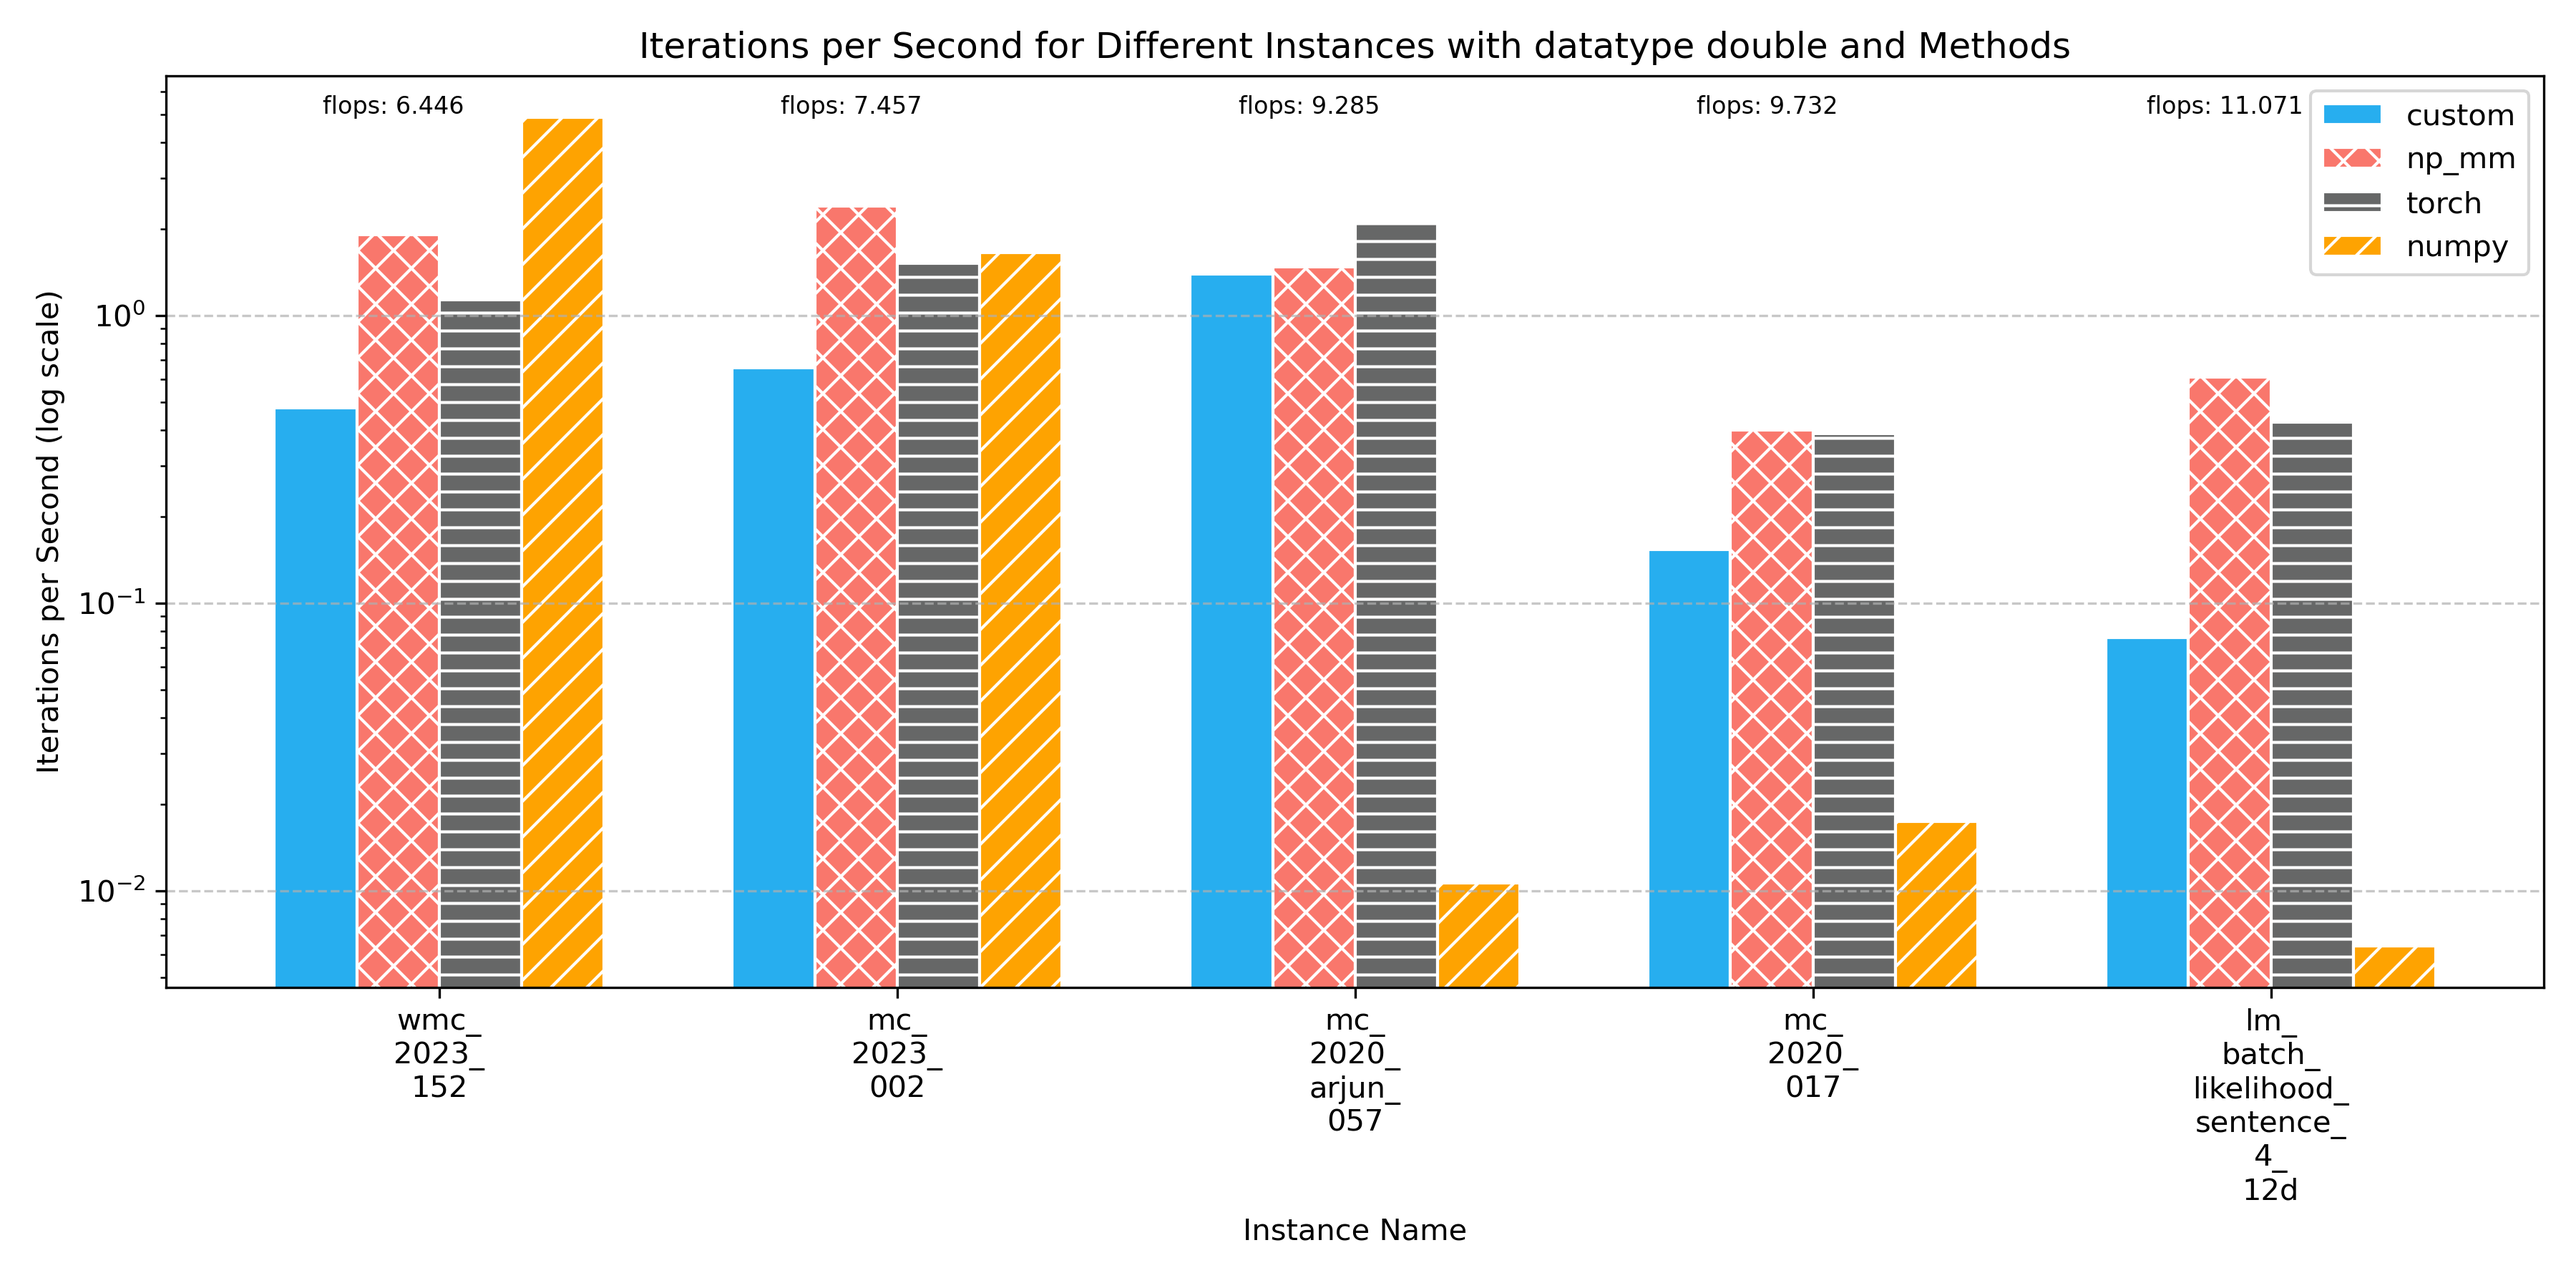
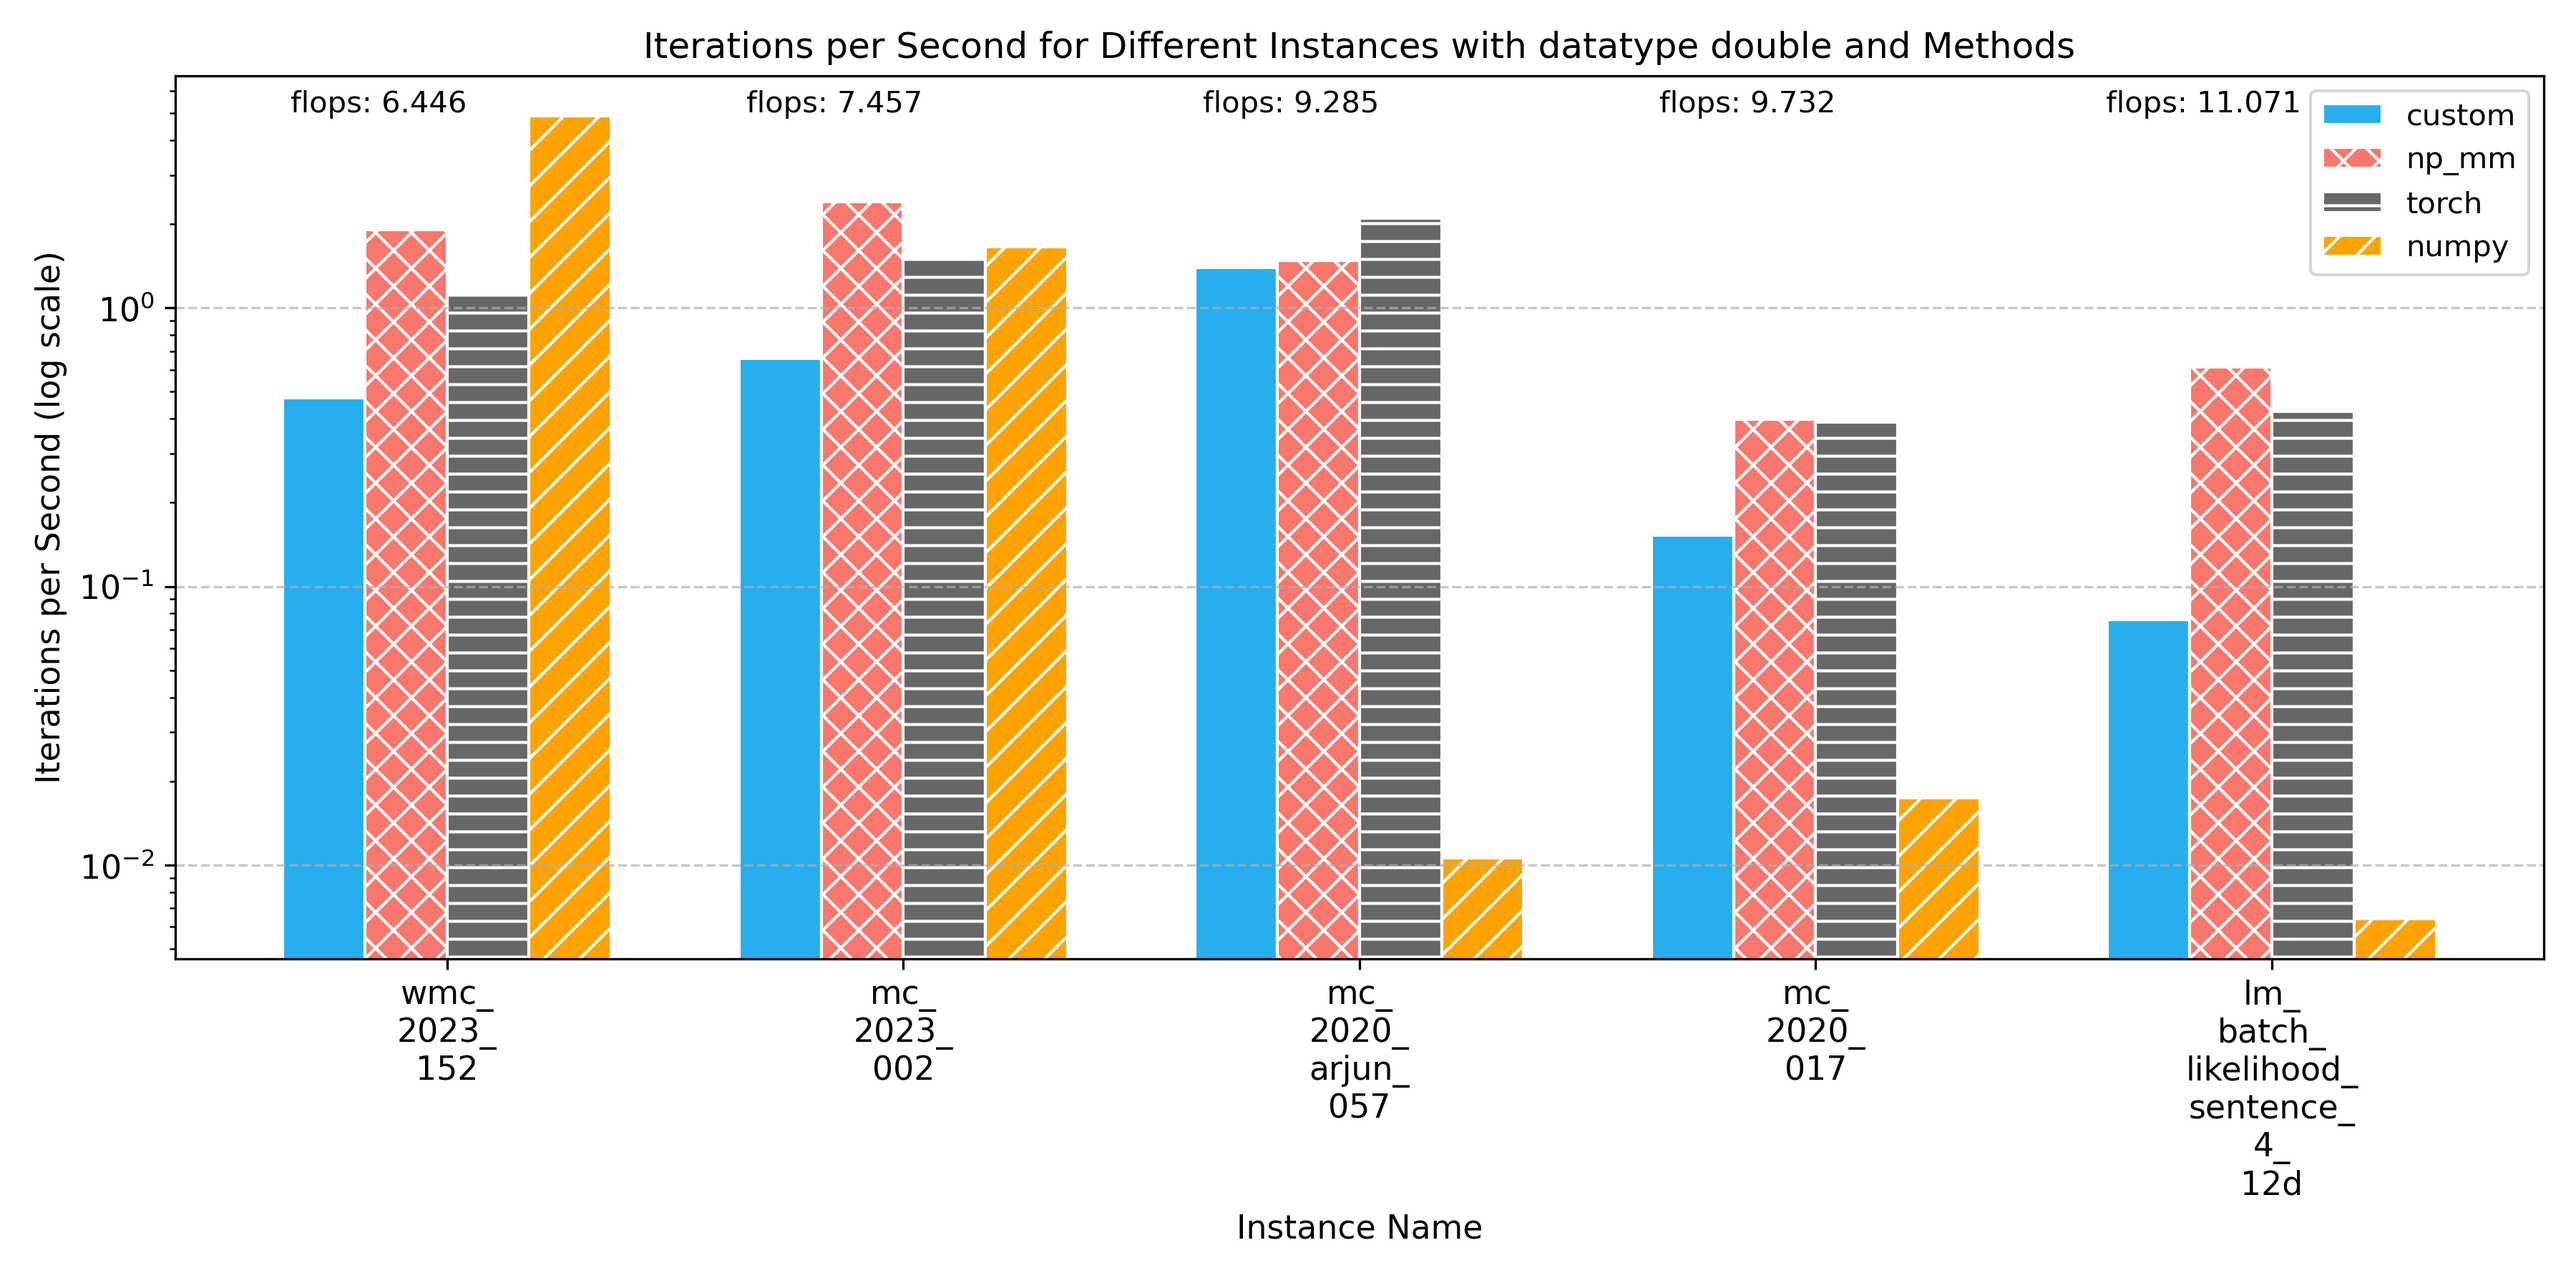
added flop count, moved it to the right position

diff --git a/data/plots_dict.py b/data/plots_dict.py
@@ -44,8 +44,9 @@ def dynamic_normal_plot(filename):
             )
 
     split_names = [split_instance_name(name) for name in instance_names]
-    plt.xlabel("Instance Name")
-    plt.ylabel("Iterations per Second (log scale)")
+    fontsize = 11
+    plt.xlabel("Instance Name", fontsize = fontsize)
+    plt.ylabel("Iterations per Second (log scale)", fontsize = fontsize)
     base_filename = filename.split('.')[0]
     display_name = re.sub(r'[_]', ' ', base_filename)
     plt.title(f"Iterations per Second for Different Instances with {display_name} and Methods")
@@ -53,14 +54,13 @@ def dynamic_normal_plot(filename):
     ymax = plt.ylim()[1]
     for i,  instance in enumerate(instance_names):
         flops = round(data[instance]['flops'], 3)
-        x_pos = i -0.1 #+ bar_width * (len(timing_methods)/ 2)
+        x_pos = i -0.15 #+ bar_width * (len(timing_methods)/ 2)
         #y_pos = max([data[instance].get(m, 0) or 0 for m in timing_methods])  # get highest bar height
-        plt.text(x_pos, ymax * 0.98, f"flops: {flops}", ha='center', fontsize=8, rotation=0)
+        plt.text(x_pos, ymax * 0.98, f"flops: {flops}", ha='center', fontsize=10, rotation=0)
     plt.yscale('log')
     plt.grid(axis="y", linestyle="--", alpha=0.7)
-    plt.legend()
-    #flops_patch = mpatches.Patch(color='white', label='Flops (text)')
-    #plt.legend(handles=plt.gca().get_legend_handles_labels()[0] + ["(text) flops"])
+    plt.tick_params(axis='both', labelsize=fontsize) 
+    plt.legend(loc='upper right', ncol=1)
     plt.tight_layout()
 
     
